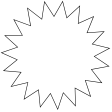
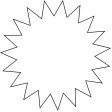
Make star image responsive and retina-aware as well

diff --git a/daycare_ethics/www/css/index.css b/daycare_ethics/www/css/index.css
@@ -66,6 +66,14 @@ iframe {
     #shelf {
         background: url(/img/shelf_0724.jpg) center;
     }
+
+    .click-hint {
+        background-image: url(/img/star_158.png);
+        width:          calc(158 * 0.0625em);
+        height:         calc(158 * 0.0625em);
+        border-radius:  calc(79 * 0.0625em);
+        line-height:    calc(153 * 0.0625em);
+    }
 }
 
 @media (min-width: 45.3em), (min-height: 45.3em) {
@@ -75,6 +83,14 @@ iframe {
 
     #shelf {
         background: url(/img/shelf_1024.jpg) center;
+    }
+
+    .click-hint {
+        background-image: url(/img/star_224.png);
+        width:          calc(224 * 0.0625em);
+        height:         calc(224 * 0.0625em);
+        border-radius:  calc(112 * 0.0625em);
+        line-height:    calc(216 * 0.0625em);
     }
 }
 

diff --git a/daycare_ethics/www/css/highres.css b/daycare_ethics/www/css/highres.css
@@ -11,6 +11,10 @@
     background: url(/img/shelf_1024.jpg) center / 32em;
 }
 
+.click-hint {
+    background-image: url(/img/star_224.png);
+}
+
 @media (min-width: 32.05em), (min-height: 32.05em) {
     #home {
         background: url(/img/background_1448.jpg) center / 45.25em;
@@ -18,6 +22,10 @@
 
     #shelf {
         background: url(/img/shelf_1448.jpg) center / 45.25em;
+    }
+
+    .click-hint {
+        background-image: url(/img/star_317.png);
     }
 }
 
@@ -28,5 +36,9 @@
 
     #shelf {
         background: url(/img/shelf_2048.jpg) center / 64em;
+    }
+
+    .click-hint {
+        background-image: url(/img/star_448.png);
     }
 }
